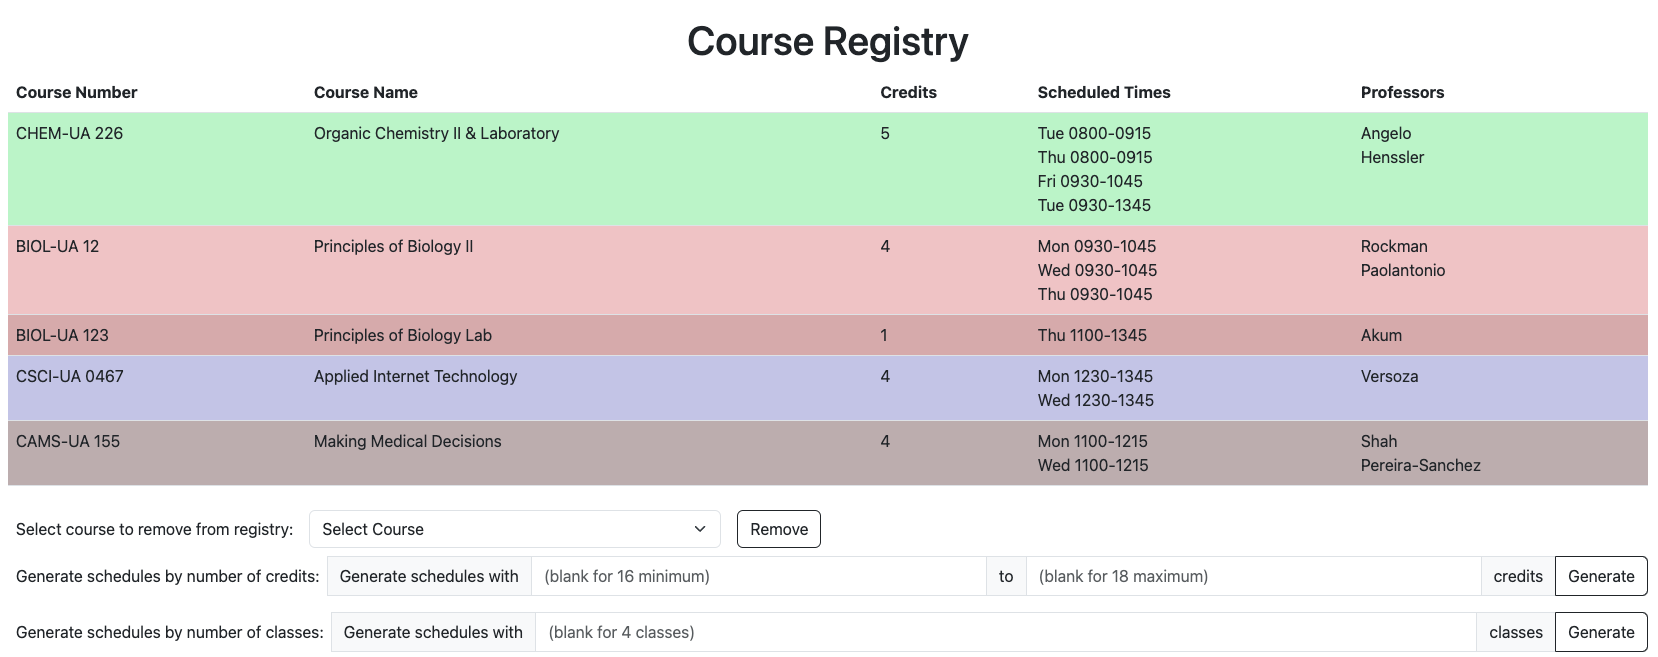
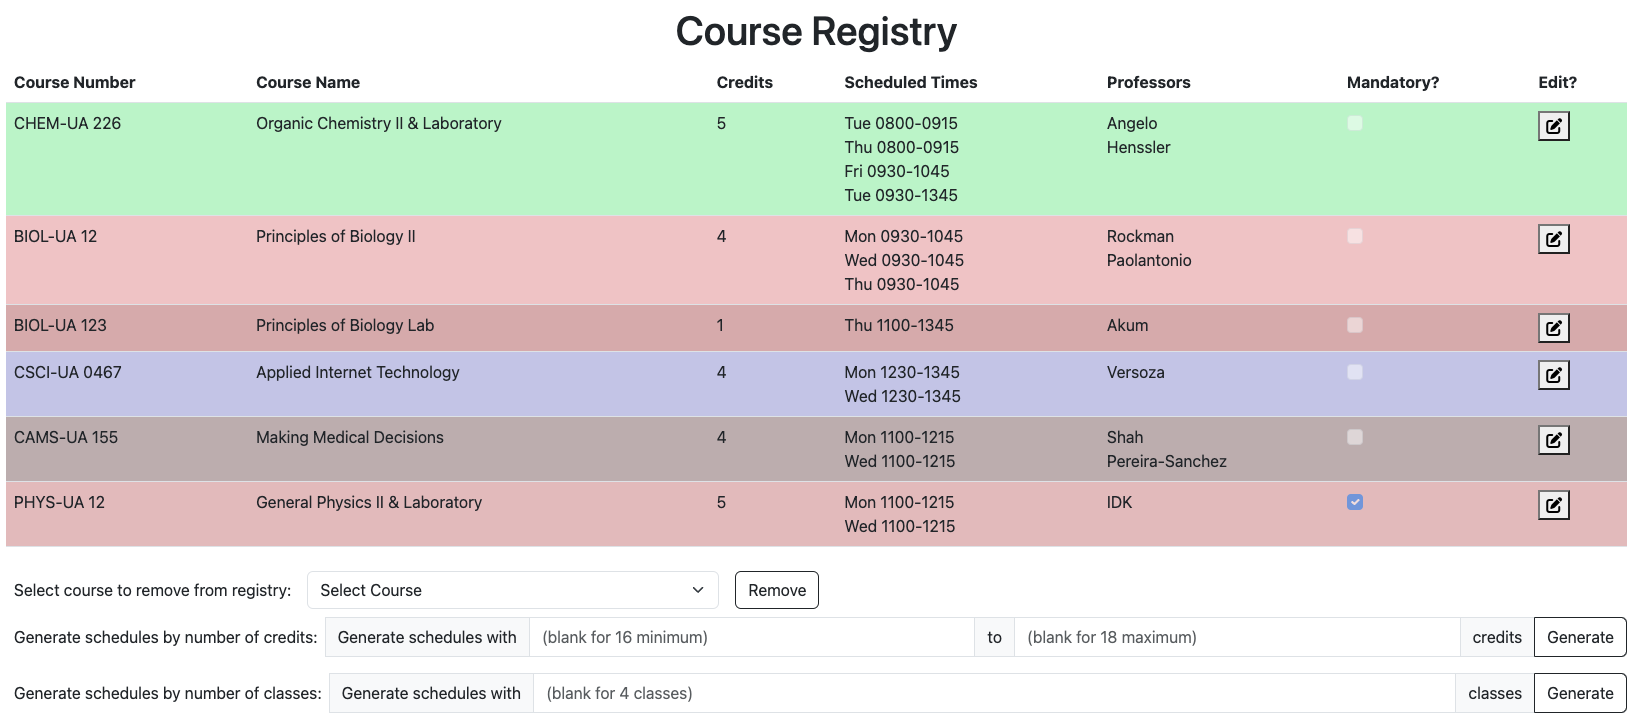
Added columns to registry for 'mandatory' status and edit course data

diff --git a/README.md b/README.md
@@ -95,6 +95,7 @@ An Example Course with Embedded Items:
 
 ## Annotations / References Used
 
-1. [Bootstrap documentation: my best friend](https://getbootstrap.com/docs/5.3/getting-started/introduction/) - [course-list.hbs](views/course-list.hbs), [add-course.hbs](views/add-course.hbs),  [schedules.hbs](views/schedules.hbs) 
-2. [Bouncer.js for client-side form validation](https://github.com/cferdinandi/bouncer) - [layout.hbs](views/layout.hbs) [add-course.hbs](views/add-course.hbs)
+1. [Bootstrap documentation: my best friend](https://getbootstrap.com/docs/5.3/getting-started/introduction/) - [layout.hbs](views/layout.hbs), [course-list.hbs](views/course-list.hbs), [add-course.hbs](views/add-course.hbs),  [schedules.hbs](views/schedules.hbs) 
+2. [Bouncer.js for client-side form validation](https://github.com/cferdinandi/bouncer) - [layout.hbs](views/layout.hbs), [add-course.hbs](views/add-course.hbs)
+3. [Font Awesome Icons](https://fontawesome.com/) - [layour.hbs](views/layout.hbs), [course-list.hbs](views/course-list.hbs)
 
